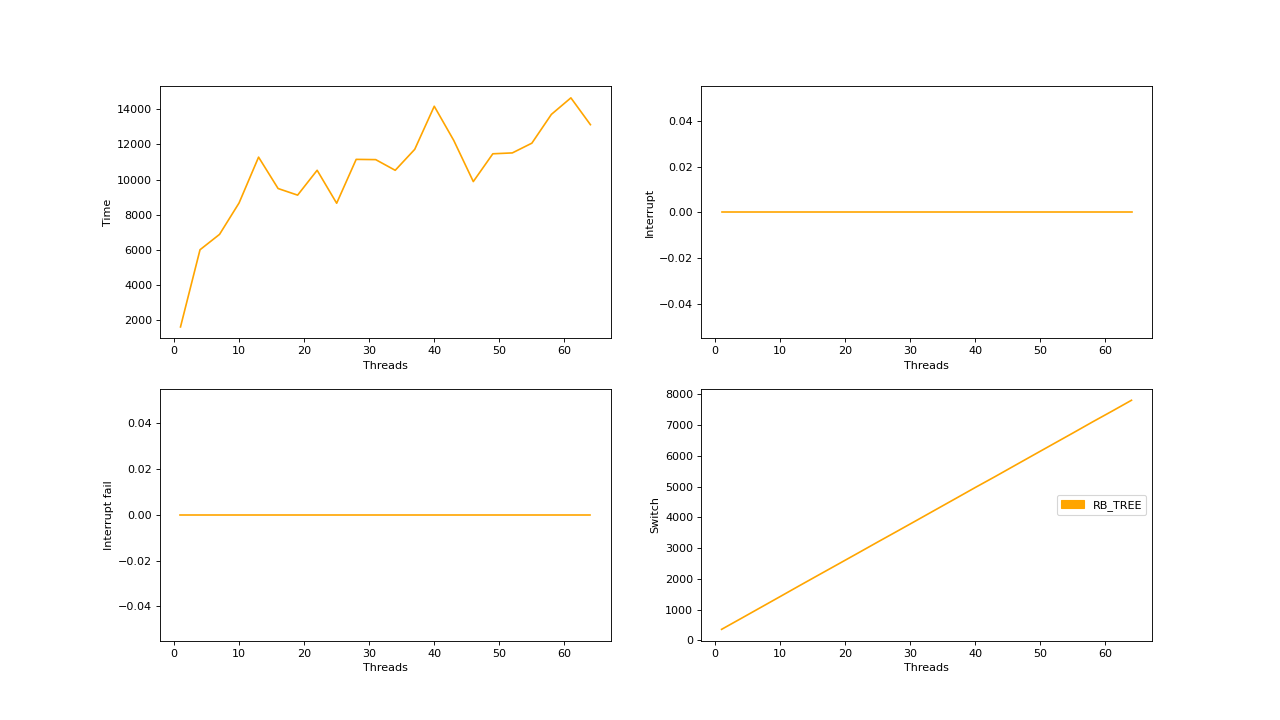
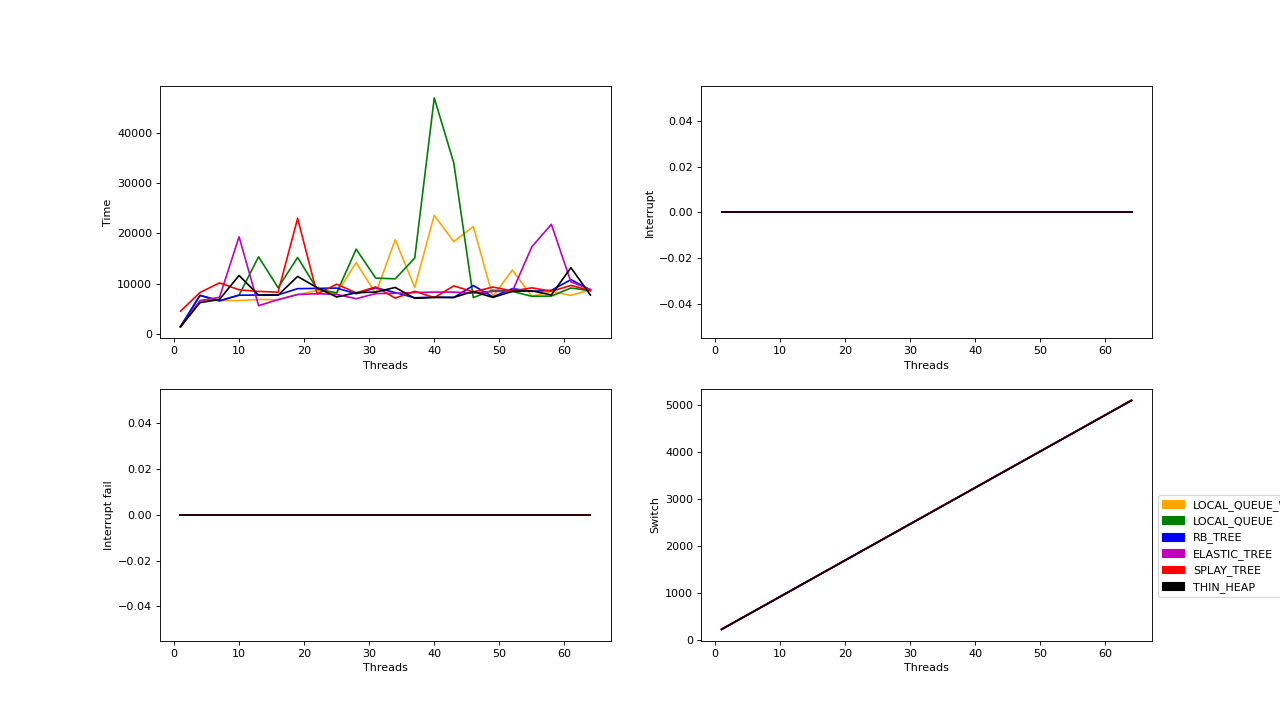
fix

diff --git a/script.py b/script.py
@@ -13,19 +13,19 @@ def run(command):
     output, error = process.communicate()
 
 
-names = [#'LOCAL_QUEUE_WITH_STEAL',
-         #'LOCAL_QUEUE',
-         'RB_TREE']#,
-         #'ELASTIC_TREE',
-         #'SPLAY_TREE',
-         #'THIN_HEAP']
+names = ['LOCAL_QUEUE_WITH_STEAL',
+         'LOCAL_QUEUE',
+         'RB_TREE',
+         'ELASTIC_TREE',
+         'SPLAY_TREE',
+         'THIN_HEAP']
 
-kinds = {#'LOCAL_QUEUE_WITH_STEAL': '-DLOCAL_QUEUES_WITH_STEAL=ON',
-         #'LOCAL_QUEUE': '-DLOCAL_QUEUES_WITH_STEAL=ON',
-         'RB_TREE': '-DRB_TREE=ON'}#,
-         #'ELASTIC_TREE' : '-DELASTIC_TREE=ON',
-         #'SPLAY_TREE' : '-DSPLAY_TREE=ON',
-         #'THIN_HEAP' : '-DTHIN_HEAP=ON'}
+kinds = {'LOCAL_QUEUE_WITH_STEAL': '-DLOCAL_QUEUES_WITH_STEAL=ON',
+         'LOCAL_QUEUE': '-DLOCAL_QUEUES_WITH_STEAL=ON',
+         'RB_TREE': '-DRB_TREE=ON',
+         'ELASTIC_TREE' : '-DELASTIC_TREE=ON',
+         'SPLAY_TREE' : '-DSPLAY_TREE=ON',
+         'THIN_HEAP' : '-DTHIN_HEAP=ON'}
 
 plot_types = {#'HIS_FB': '-DFIBER_STAT=ON -DTHREAD_STAT=OFF',
               #'HIS_TH': '-DTHREAD_STAT=ON -DFIBER_STAT=OFF',
@@ -59,20 +59,21 @@ for kind in kinds:
     for plot_type in plot_types:
         for realtime_flag in realtime_flags:
             for interrupt_flag in interrupt_flags:
-                run('cmake -U -D ' + kinds[kind] + ' ' +
-                    interrupt_flags[interrupt_flag] + ' ' + realtime_flags[realtime_flag] + ' ' + plot_types[plot_type])
-                run('cmake --build .')
-                run('mkdir -p ' + path)
-                run('./run.sh')
-                run('mkdir -p ' + images)
-                run('mkdir -p ' + images + "/" + plot_type)
-
-                print(kind + '_' + interrupt_flag+'_' +
-                      realtime_flag + '_'+plot_type + '  ' + 'DONE')
-                count += 1
-                print(count)
-
                 if(plot_type == 'HIS_FB'):
+                    run('rm -rf build')
+                    run('cmake -U -D ' + kinds[kind] + ' ' +
+                    interrupt_flags[interrupt_flag] + ' ' + realtime_flags[realtime_flag] + ' ' + plot_types[plot_type])
+                    run('cmake --build .')
+                    run('mkdir -p ' + path)
+                    run('./run.sh')
+                    run('mkdir -p ' + images)
+                    run('mkdir -p ' + images + "/" + plot_type)
+
+                    print(kind + '_' + interrupt_flag+'_' +
+                      realtime_flag + '_'+plot_type + '  ' + 'DONE')
+                    count += 1
+                    print(count)
+
                     for file in os.listdir(path):
                         name = file + '_'+kind + '_' + interrupt_flag + '_' + realtime_flag
                         data = np.genfromtxt(
@@ -134,6 +135,20 @@ for kind in kinds:
                         plt.savefig(images + '/'+plot_type +
                                     '/' + name + '.png')
                 elif(plot_type == 'HIS_TH'):
+                    run('rm -rf build')
+                    run('cmake -U -D ' + kinds[kind] + ' ' +
+                    interrupt_flags[interrupt_flag] + ' ' + realtime_flags[realtime_flag] + ' ' + plot_types[plot_type])
+                    run('cmake --build .')
+                    run('mkdir -p ' + path)
+                    run('./run.sh')
+                    run('mkdir -p ' + images)
+                    run('mkdir -p ' + images + "/" + plot_type)
+
+                    print(kind + '_' + interrupt_flag+'_' +
+                      realtime_flag + '_'+plot_type + '  ' + 'DONE')
+                    count += 1
+                    print(count)
+
                     for file in os.listdir(path):
                         name = file + '_'+kind + '_' + interrupt_flag + '_' + realtime_flag
                         data = np.genfromtxt(
@@ -202,6 +217,7 @@ for interrupt_flag in interrupt_flags:
     for realtime_flag in realtime_flags:
         d[interrupt_flag][realtime_flag] = {}
         for kind in kinds:
+            run('rm -rf build')
             run('cmake -U -D ' + kinds[kind] + ' ' +
                 interrupt_flags[interrupt_flag] + ' ' + realtime_flags[realtime_flag] + ' ' + plot_types['TIME'])
             run('make clean')

diff --git a/src/scheduler/splay_tree_scheduler.c b/src/scheduler/splay_tree_scheduler.c
@@ -56,13 +56,12 @@ fiber *get_from_pool()
     splay_tree *tree = current_scheduler->manager->tree;
 
     lock_spinlock(&current_scheduler->manager->lock);
-    fiber_node *node = (fiber_node *)splay_tree_first(tree);
+    splay_node *node = splay_tree_first(tree);
     if (node)
     {
-        splay_tree_delete(tree, node);
+        splay_tree_delete_hint(tree, node);
         unlock_spinlock(&current_scheduler->manager->lock);
-        fiber *res = node->fib;
-        free(node);
+        fiber *res = ((fiber_node *)node->value)->fib;
         return res;
     }
     else

diff --git a/tests/test_utils.h b/tests/test_utils.h
@@ -10,7 +10,7 @@
 #include <structures/list.h>
 
 #ifndef TEST_LEVEL
-#define TEST_LEVEL 6
+#define TEST_LEVEL 4
 #endif
 
 #if RB_TREE
@@ -79,7 +79,7 @@ void run_test(void (*test)())
 
         printf("%ld %ld %ld %ld %ld \n", scheds_threads, delta / 1000, stat.interrupt_count, stat.interrupt_failed_count, stat.switch_count);
 
-        scheds_threads+=65;
+        scheds_threads+=3;
     }
 #endif
 }

diff --git a/src/scheduler/scheduler.c b/src/scheduler/scheduler.c
@@ -516,7 +516,6 @@ void shutdown(scheduler *sched)
 {
     while (sched->count != sched->end_count)
     {
-        printf("%ld %ld\n", sched->count, sched->end_count);
         // Sleep if failed
         usleep(200);
     }
